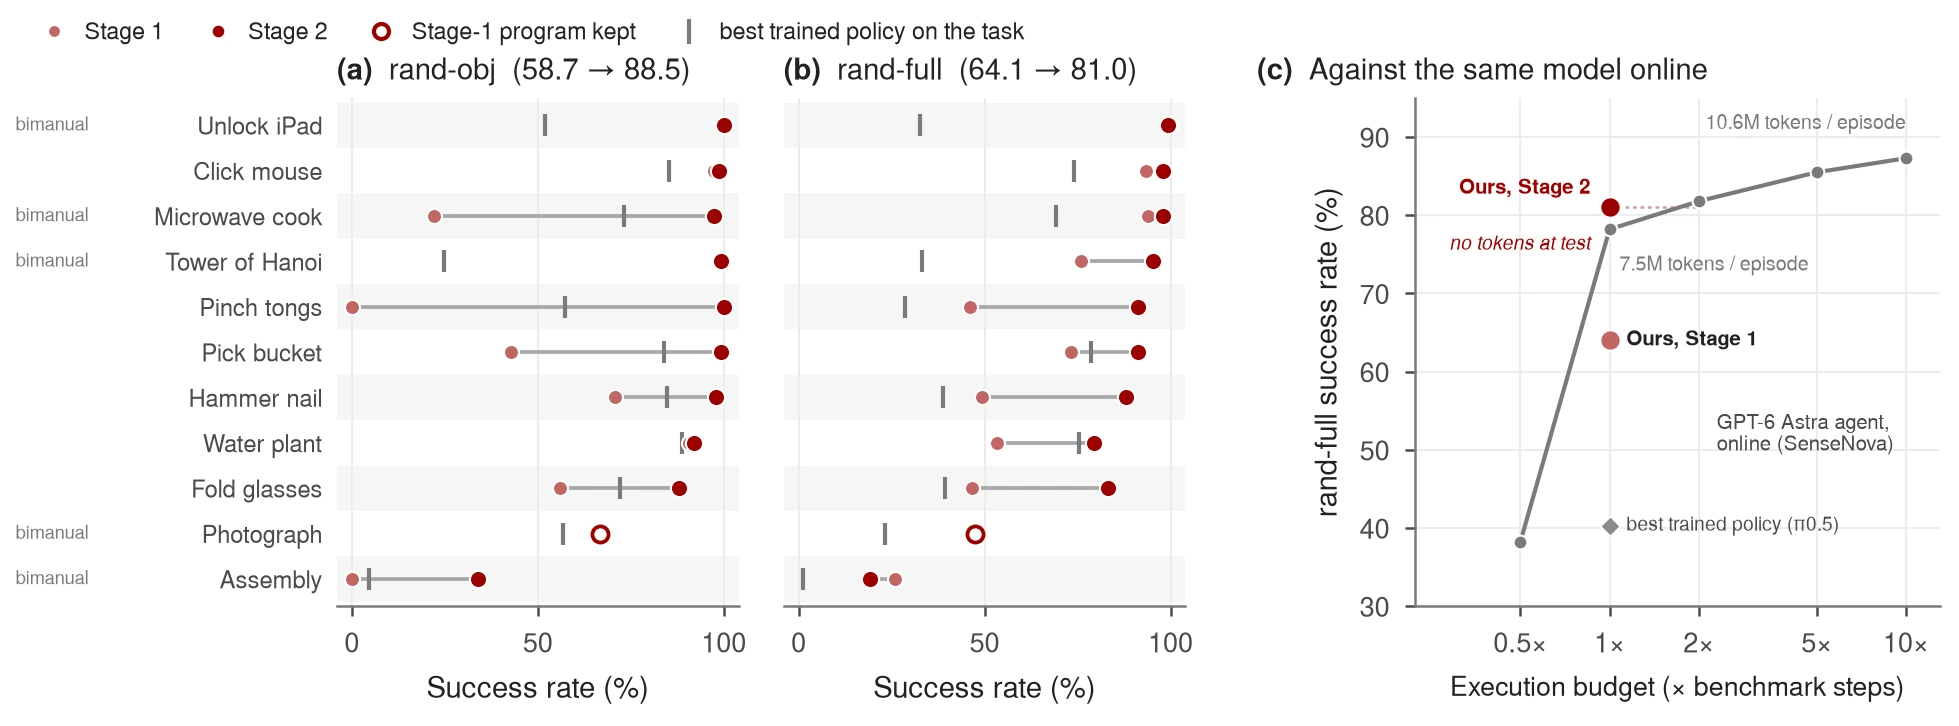
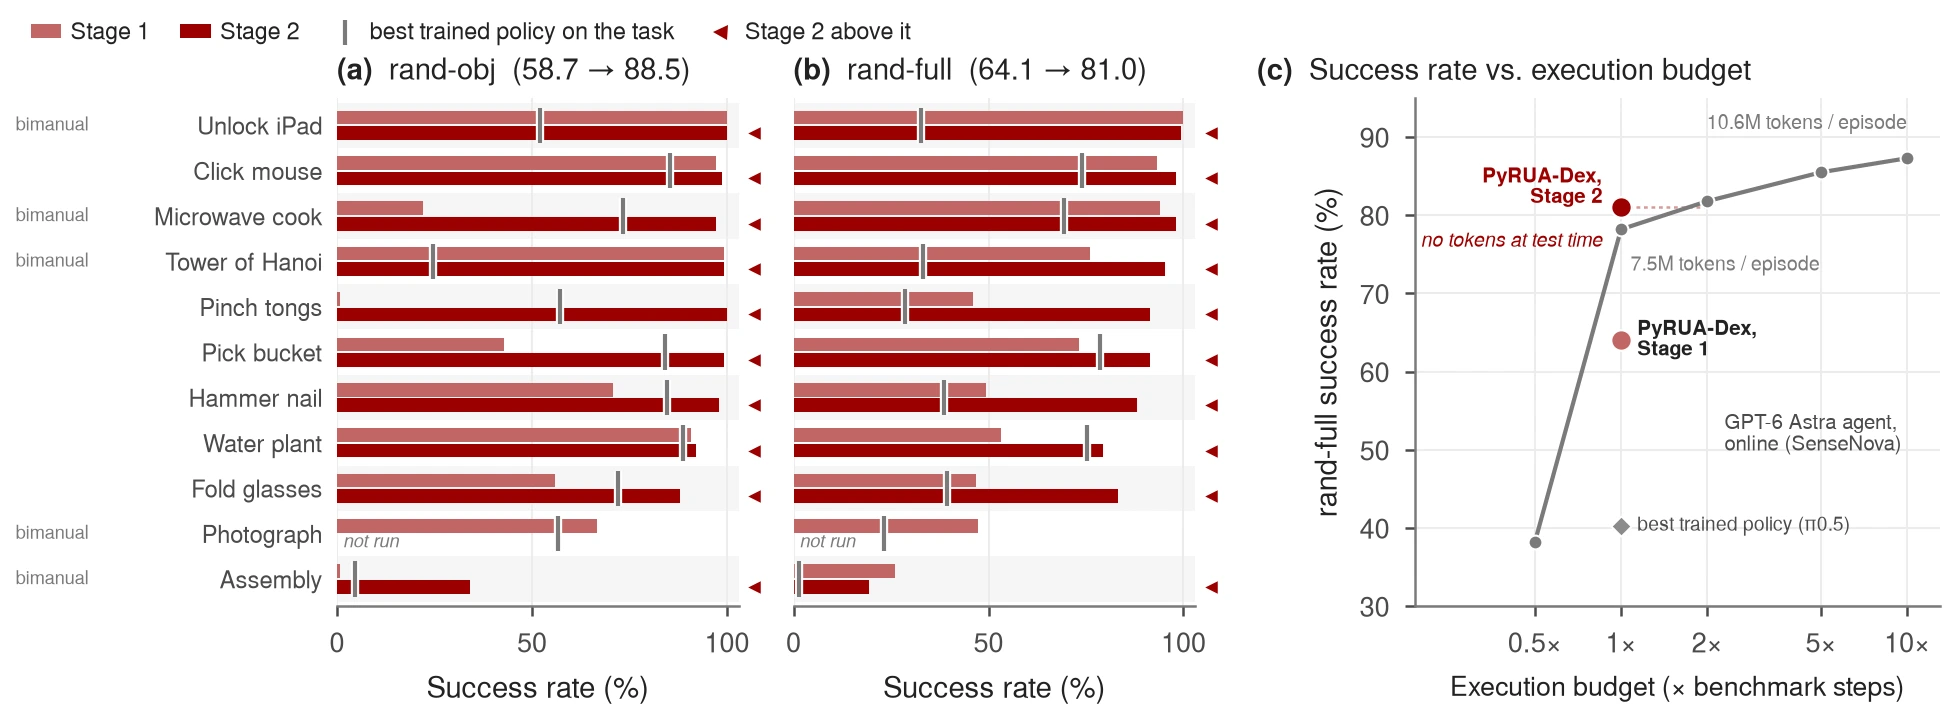
PyRUA-Dex page: paper figures after the 11-24 review; Twinkle had 4 rounds
fig-method, fig-stage2, fig-dexjoco and fig-r2s2r re-exported from the paper with its captions (one visual vocabulary; method boxes named after the method's paragraphs; DexJoCo two bars per task; the real-to-sim-to-real loop). Twinkle, Twinkle: 4 rounds of Stage 2, not 5.

diff --git a/PyRUA-Dex/index.html b/PyRUA-Dex/index.html
@@ -240,8 +240,8 @@
     </div>
 
     <figure class="fig rv">
-      <a class="zoom" href="static/images/paper/fig-method.webp"><img src="static/images/paper/fig-method.webp" alt="Overview of PyRUA-Dex: inputs, Stage 1 explore with eight parallel agents, Stage 2 practise on the weakest link, and the dev gate" width="1959" height="690" loading="lazy"></a>
-      <figcaption><b>PyRUA-Dex.</b> <b>Stage 1</b> (explore): eight agents work one task in parallel with rewinds and stage feedback; a distilling agent turns their frozen programs into a task library and a champion. <b>Stage 2</b> (practise): one agent practises the champion's weakest link over many layouts and lets failed stages try again. <b>Dev gate</b>: a new champion replaces the old one only if it is no worse on 32 development layouts. The champion runs frozen, with no language model.</figcaption>
+      <a class="zoom" href="static/images/paper/fig-method.webp?v=20261124"><img src="static/images/paper/fig-method.webp?v=20261124" alt="Overview of PyRUA-Dex: the inputs; Stage 1, exploring with rewinds, round notes, frozen replay and distillation; Stage 2, the report, practice runs, second tries, batches and choosing the version; the dev gate; the frozen champion" width="1959" height="690" loading="lazy"></a>
+      <figcaption><b>PyRUA-Dex.</b> Every box is named after the paragraph of the paper's method section that describes it. <b>Stage 1</b> (explore): eight agents explore one task in parallel with rewinds, round notes tell every episode to all of them at once, and the programs that scored are replayed frozen and distilled into a task library and a champion. <b>Stage 2</b> (practise): one agent reads the champion's report link by link, practises the weakest link on many layouts, lets failed stages try again, measures each version in batches and keeps the one with the best held-out record. <b>Dev gate</b>: a new champion replaces the old one only if it is no worse on 32 dev layouts. The champion runs frozen, with no language model.</figcaption>
     </figure>
 
     <h3 class="h3 rv"><svg class="ic"><use href="#i-layers"/></svg>Two stages, one gate</h3>
@@ -480,8 +480,8 @@
 
     <h3 class="h3 rv"><svg class="ic"><use href="#i-sim"/></svg>Real to sim to real</h3>
     <figure class="fig rv">
-      <a class="zoom" href="static/images/paper/fig-r2s2r.webp?v=20261123b"><img src="static/images/paper/fig-r2s2r.webp?v=20261123b" alt="Real to sim to real on the rig: what the twin shares with the robot, robot first (head and wrist cameras with the twin's outlines on the robot's pictures, the hands' drives, fingertip touch, objects, the user's instruction), learning in the twin, the frozen programs on the robot, and the dev layouts completed after each round" width="1959" height="858" loading="lazy"></a>
-      <figcaption><b>Real to sim to real on the rig.</b> (1) What the twin shares with the robot, the robot's view first: cameras, the hands' drives, fingertip touch, objects and the user's instructions; (2) learning in the twin, Stage 1 once and Stage 2 round after round; (3) the frozen programs on the robot; (4) dev layouts completed after each round, the twin adjusted between rounds.</figcaption>
+      <a class="zoom" href="static/images/paper/fig-r2s2r.webp?v=20261124"><img src="static/images/paper/fig-r2s2r.webp?v=20261124" alt="Real to sim to real on the rig: the twin built from the robot (head and wrist cameras, the basket from a phone video), the loop in which the champion runs frozen on the robot and the robot's feedback adjusts the twin, and the dev layouts completed after each round" width="1959" height="615" loading="lazy"></a>
+      <figcaption><b>Real to sim to real on the rig.</b> (a) The twin is built from the robot: the robot's head and right wrist cameras beside the twin's at the same joints, and the basket from the user's phone video to the twin's model. (b) Agents learn in the twin, Stage 1 once and Stage 2 round after round; the champion runs frozen on the robot (cube to basket: the twin's render and the robot's film at the same point of the task), and what the robot shows and the user's instructions adjust the twin before the next round. (c) Dev layouts completed (of 32) after Stage 1 and after each round of Stage 2; ×: the twin was adjusted before that round. The y axis is broken below 20.</figcaption>
     </figure>
 
     <h3 class="h3 rv"><svg class="ic"><use href="#i-sim"/></svg>Learning on the rig</h3>
@@ -497,7 +497,7 @@
         <div class="dumb-row" style="--a:3;--b:14"><div class="dumb-name"><b>Write “Dex”</b><small>take the brush and write “Dex” on the cloth · 1 round</small></div><div class="track2"><span class="seg"></span><span class="pt" tabindex="0" data-v="3 / 32" data-l="Write “Dex” · Stage 1"></span><span class="pt s2" tabindex="0" data-v="14 / 32" data-l="Write “Dex” · Stage 2"></span></div><div class="dumb-v">3 → <b>14</b></div></div>
         <div class="dumb-group">Piano</div>
         <div class="dumb-row" style="--a:29;--b:32"><div class="dumb-name"><b>Ode to Joy</b><small>the right hand, eight phrases · 5 rounds</small></div><div class="track2"><span class="seg"></span><span class="pt" tabindex="0" data-v="29 / 32" data-l="Piano, Ode to Joy · Stage 1"></span><span class="pt s2" tabindex="0" data-v="32 / 32" data-l="Piano, Ode to Joy · Stage 2"></span></div><div class="dumb-v">29 → <b>32</b></div></div>
-        <div class="dumb-row" style="--a:29;--b:31"><div class="dumb-name"><b>Twinkle, Twinkle</b><small>two hands, tune and bass, six phrases · 5 rounds</small></div><div class="track2"><span class="seg"></span><span class="pt" tabindex="0" data-v="29 / 32" data-l="Piano, Twinkle, Twinkle · Stage 1"></span><span class="pt s2" tabindex="0" data-v="31 / 32" data-l="Piano, Twinkle, Twinkle · Stage 2"></span></div><div class="dumb-v">29 → <b>31</b></div></div>
+        <div class="dumb-row" style="--a:29;--b:31"><div class="dumb-name"><b>Twinkle, Twinkle</b><small>two hands, tune and bass, six phrases · 4 rounds</small></div><div class="track2"><span class="seg"></span><span class="pt" tabindex="0" data-v="29 / 32" data-l="Piano, Twinkle, Twinkle · Stage 1"></span><span class="pt s2" tabindex="0" data-v="31 / 32" data-l="Piano, Twinkle, Twinkle · Stage 2"></span></div><div class="dumb-v">29 → <b>31</b></div></div>
         <div class="dumb-row" style="--a:23;--b:29"><div class="dumb-name"><b>Little Jumping Frog</b><small>two hands, tune and bass, eight phrases · 1 round</small></div><div class="track2"><span class="seg"></span><span class="pt" tabindex="0" data-v="23 / 32" data-l="Piano, Little Jumping Frog · Stage 1"></span><span class="pt s2" tabindex="0" data-v="29 / 32" data-l="Piano, Little Jumping Frog · Stage 2"></span></div><div class="dumb-v">23 → <b>29</b></div></div>
         <div class="dumb-axis" aria-hidden="true"><span class="axis-pad"></span><div class="axis-ticks"><span style="left:0%">0</span><span style="left:25%">8</span><span style="left:50%">16</span><span style="left:75%">24</span><span style="left:100%">32</span></div><span class="axis-unit">of 32</span></div>
       </div>
@@ -512,7 +512,7 @@
             <tr><td>Write “Dex”</td><td>take the brush and write “Dex” on the cloth</td><td class="num">1500</td><td class="num">3</td><td class="num">14</td><td class="num">1</td></tr>
             <tr class="grp"><td colspan="6">Piano</td></tr>
             <tr><td>Ode to Joy</td><td>the right hand, eight phrases</td><td class="num">4500</td><td class="num">29</td><td class="num">32</td><td class="num">5</td></tr>
-            <tr><td>Twinkle, Twinkle</td><td>two hands, tune and bass, six phrases</td><td class="num">4500</td><td class="num">29</td><td class="num">31</td><td class="num">5</td></tr>
+            <tr><td>Twinkle, Twinkle</td><td>two hands, tune and bass, six phrases</td><td class="num">4500</td><td class="num">29</td><td class="num">31</td><td class="num">4</td></tr>
             <tr><td>Little Jumping Frog</td><td>two hands, tune and bass, eight phrases</td><td class="num">6000</td><td class="num">23</td><td class="num">29</td><td class="num">1</td></tr>
             <tr><td><b>Total</b></td><td></td><td></td><td class="num"><b>119 / 192</b></td><td class="num"><b>168 / 192</b></td><td></td></tr>
             <tr class="grp"><td colspan="6">Piano, same-family skill (30 min to 1 h of iteration)</td></tr>
@@ -580,8 +580,8 @@
       <div class="nbox rv"><b>43.6% → 61.7%</b><span>dev layouts completed, against formal success 44.6% → 60.6%: the gate predicts the benchmark</span></div>
     </div>
     <figure class="fig rv">
-      <a class="zoom" href="static/images/paper/fig-stage2.webp"><img src="static/images/paper/fig-stage2.webp" alt="Why practising works: how Stage 1 programs failed, held-out completions batch by batch, and task 12 link by link" width="1959" height="645" loading="lazy"></a>
-      <figcaption><b>Why practising works.</b> (a) How the 341 failed dev runs of the Stage 1 champions ended, on the 22 tasks Stage 1 completed at least once (704 runs); the 128 runs of the 4 tasks it never completed are not included. (b) Held-out completions (of 32), batch by batch through Stage 2; batch 0 is the Stage 1 champion. (c) Task 12: held-out layouts that reached each stage.</figcaption>
+      <a class="zoom" href="static/images/paper/fig-stage2.webp?v=20261124"><img src="static/images/paper/fig-stage2.webp?v=20261124" alt="Why practising works: how Stage 1 programs failed, held-out completions batch by batch, and task 12 link by link" width="1959" height="645" loading="lazy"></a>
+      <figcaption><b>Why practising works.</b> (a) How the 341 failed dev runs of the Stage 1 champions ended, on the 22 tasks Stage 1 completed at least once (704 runs); the 128 runs of the 4 tasks it never completed are not included. Dark bars: the two main ways. (b) Held-out completions (of 32), batch by batch through Stage 2: batch 0 is the Stage 1 champion (light dot, dotted line at its level), small dots are Stage 2 batches, and the large dot is the batch that became the champion. (c) Task 12: held-out layouts that reached each stage, Stage 1 and Stage 2 champion.</figcaption>
     </figure>
 
     <h3 class="h3 rv"><svg class="ic"><use href="#i-bolt"/></svg>Frozen programs against the same model online</h3>
@@ -668,8 +668,8 @@
     </div>
 
     <figure class="fig rv" style="margin-top:22px">
-      <a class="zoom" href="static/images/paper/fig-dexjoco.webp"><img src="static/images/paper/fig-dexjoco.webp" alt="DexJoCo results: per-task success rate of the Stage 1 and Stage 2 programs under rand-obj and rand-full, and rand-full success rate against the execution budget" width="1959" height="726" loading="lazy"></a>
-      <figcaption><b>DexJoCo results.</b> (a), (b) Per-task success rate of the Stage 1 and Stage 2 programs, with the best trained policy (grey tick). (c) rand-full success rate against the execution budget.</figcaption>
+      <a class="zoom" href="static/images/paper/fig-dexjoco.webp?v=20261124"><img src="static/images/paper/fig-dexjoco.webp?v=20261124" alt="DexJoCo results: per-task success rate of the Stage 1 and Stage 2 programs, two bars per task, under rand-obj and rand-full, and rand-full success rate against the execution budget" width="1959" height="726" loading="lazy"></a>
+      <figcaption><b>DexJoCo results.</b> (a) rand-obj and (b) rand-full success rate per task: the Stage 1 program (light bar) above the Stage 2 program (dark bar), with the averages in the panel titles, and the best trained policy on the task (grey tick). Triangles: Stage 2 above it, on all ten tasks it ran on; “not run”: Stage 2 did not run on the photograph task. (c) rand-full success rate against the execution budget; the frozen programs spend no tokens at test time, the dotted line marks where the online agent matches them, and the diamond is the best trained policy, π<sub>0.5</sub>.</figcaption>
     </figure>
 
     <div class="card twin-card rv">
